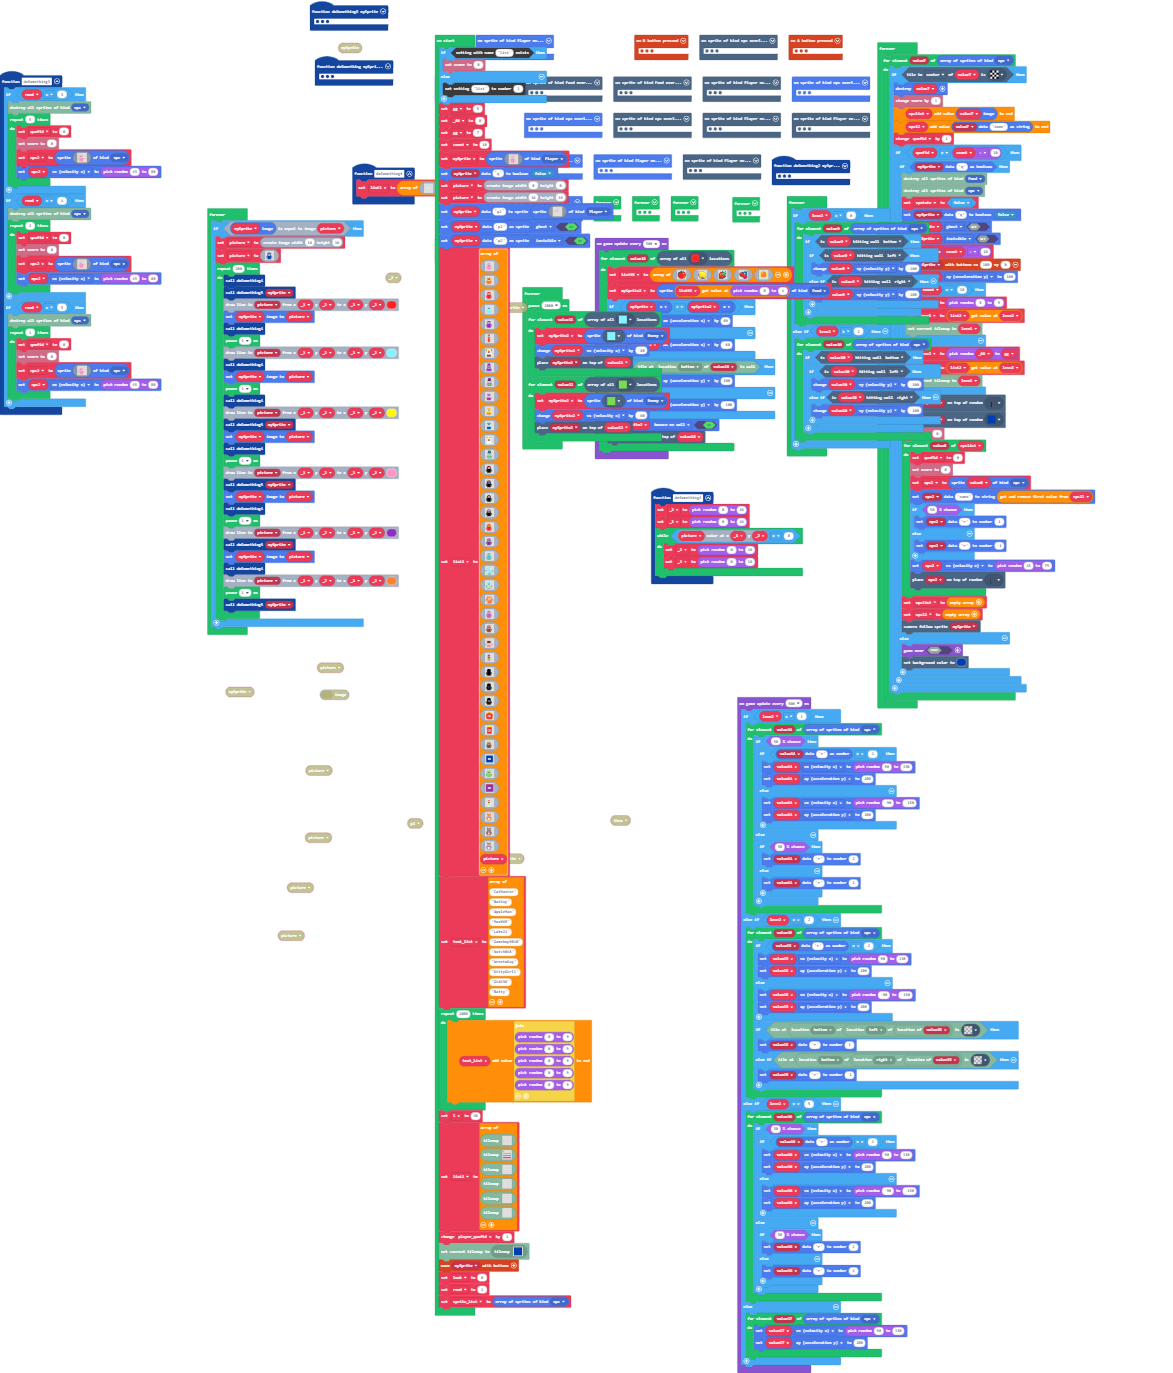
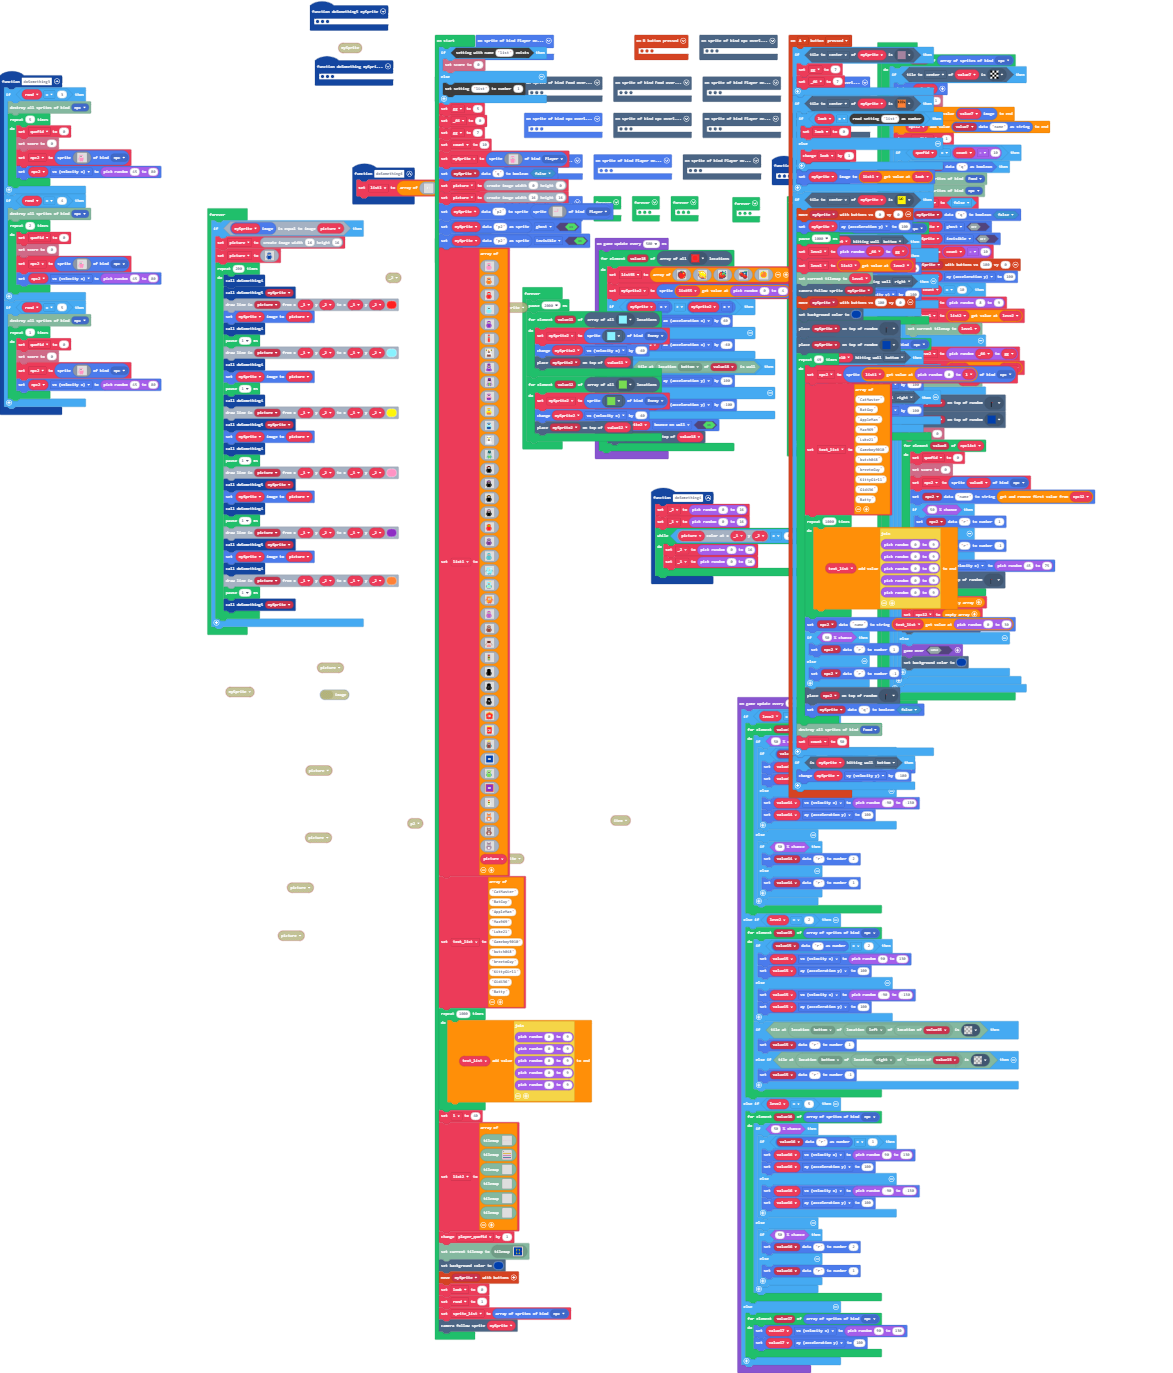
Update main.blocks, main.ts

Changed region(s): [[0.6445, 0.0306, 0.8593, 0.5812], [0.3683, 0.9177, 0.491, 0.9789]]

diff --git a/main.ts b/main.ts
@@ -169,6 +169,7 @@ controller.A.onEvent(ControllerButtonEvent.Pressed, function () {
             tiles.placeOnRandomTile(npc2, myTiles.tile6)
             sprites.setDataBoolean(mySprite, "q", false)
         }
+        tiles.destroySpritesOfKind(SpriteKind.Food)
         count = 50
     }
     if (mySprite.isHittingTile(CollisionDirection.Bottom)) {
@@ -1446,28 +1447,30 @@ tiles.createMap(tiles.createTilemap(hex`1000100000000000000000000000000000000000
     `, [myTiles.transparency16], TileScale.Sixteen))
 ]
 player_quofid += 1
-tiles.loadMap(tiles.createMap(tiles.createTilemap(hex`1000100003030303030303030303030303030303030303030302010303030303030303030303030303030303030303030303030303030303030303030303030303030303030303030303030303030303030303030303030303030303030303030303030303030303030303030303030303030303030303030303030303030303030303030303030303030303030303030303030303030303030303030303030303030303030303030303030303030303030303030303030303030303030303030303030303030303030303030303030303030303030303030303030303030303030303030303030303030303030303030303030303030303030303030303030303030303`, img`
+tiles.loadMap(tiles.createMap(tiles.createTilemap(hex`1000100007040303030303030303030404040406070403030302010403030304040404040704030303030304030303040404040407040303030303040303030304040404070403030505050303050505040404040704030305030304030303050404040407040303050303040303030504040404070403030503030403030305040404060704030303030304030303030404040607040303030303030303030304040404070403030503030303030305040404040704030305030303030303050404040407040404050505030305050504040404070404040404040404040404040404040704040404040404040404040404040407040404040404040404040404040406`, img`
     . . . . . . . . . . . . . . . . 
     . . . . . . . . . . . . . . . . 
     . . . . . . . . . . . . . . . . 
     . . . . . . . . . . . . . . . . 
+    . . . . 2 2 2 . . 2 2 2 . . . . 
+    . . . . 2 . . . . . . 2 . . . . 
+    . . . . 2 . . . . . . 2 . . . . 
+    . . . . 2 . . . . . . 2 . . . . 
+    . . . . . . . . . . . . . . . . 
+    . . . . . . . . . . . . . . . . 
+    . . . . 2 . . . . . . 2 . . . . 
+    . . . . 2 . . . . . . 2 . . . . 
+    . . . . 2 2 2 . . 2 2 2 . . . . 
     . . . . . . . . . . . . . . . . 
     . . . . . . . . . . . . . . . . 
     . . . . . . . . . . . . . . . . 
-    . . . . . . . . . . . . . . . . 
-    . . . . . . . . . . . . . . . . 
-    . . . . . . . . . . . . . . . . 
-    . . . . . . . . . . . . . . . . 
-    . . . . . . . . . . . . . . . . 
-    . . . . . . . . . . . . . . . . 
-    . . . . . . . . . . . . . . . . 
-    . . . . . . . . . . . . . . . . 
-    . . . . . . . . . . . . . . . . 
-    `, [myTiles.transparency16,myTiles.tile1,myTiles.tile2,myTiles.tile13], TileScale.Sixteen)))
+    `, [myTiles.transparency16,myTiles.tile1,myTiles.tile2,myTiles.tile13,myTiles.tile25,myTiles.tile3,myTiles.tile12,myTiles.tile20], TileScale.Sixteen)))
+scene.setBackgroundColor(8)
 controller.moveSprite(mySprite)
 look = 0
 rond = 1
 let sprite_list = sprites.allOfKind(SpriteKind.npc)
+scene.cameraFollowSprite(mySprite)
 forever(function () {
     for (let value7 of sprites.allOfKind(SpriteKind.npc)) {
         if (value7.tileKindAt(TileDirection.Center, myTiles.tile7)) {
